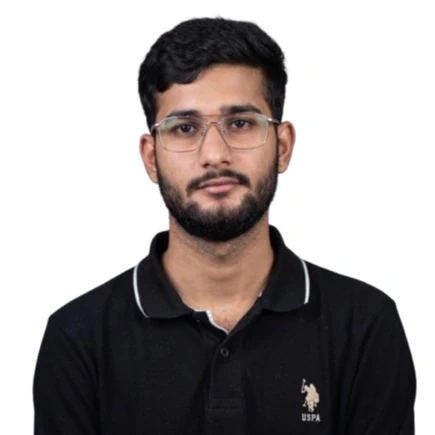
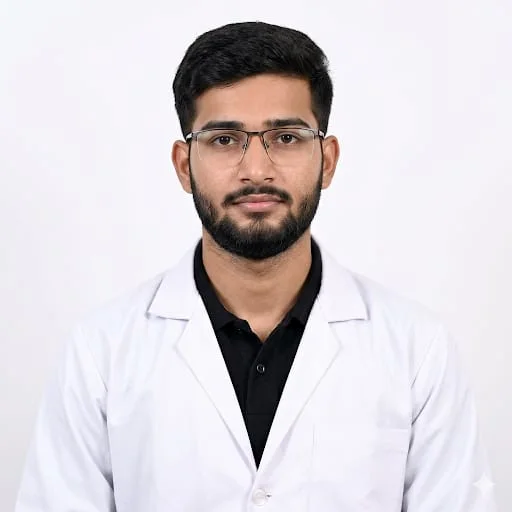
reverse animation flow

diff --git a/src/components/public/PublicNavbar.tsx b/src/components/public/PublicNavbar.tsx
@@ -391,15 +391,15 @@ export default function PublicNavbar() {
             className="overflow-y-auto max-h-[calc(100dvh-64px)] sm:max-h-[calc(100dvh-72px)] border-t border-ink-200 bg-white lg:hidden"
           >
             <div className="space-y-1 px-5 py-4">
-              {MAIN_LINKS.map((link) => (
-                <Link
-                  key={link.href}
-                  href={link.href}
-                  className="block rounded-xl px-4 py-3 font-sans text-sm font-semibold text-ink-700 transition-colors hover:bg-ink-50 hover:text-brand-red-600"
-                >
-                  {link.label}
-                </Link>
-              ))}
+              {/* 1. Home Link */}
+              <Link
+                href={MAIN_LINKS[0].href}
+                className="block rounded-xl px-4 py-3 font-sans text-sm font-semibold text-ink-700 transition-colors hover:bg-ink-50 hover:text-brand-red-600"
+              >
+                {MAIN_LINKS[0].label}
+              </Link>
+
+              {/* 2. Programs Section */}
               <p className="px-4 pb-1 pt-4 font-sans text-[0.625rem] font-bold uppercase tracking-[0.16em] text-ink-400">
                 Programs
               </p>
@@ -415,6 +415,8 @@ export default function PublicNavbar() {
                   <span className="font-sans text-sm font-semibold text-ink-700">{p.label}</span>
                 </Link>
               ))}
+
+              {/* 3. Admissions Section */}
               <p className="px-4 pb-1 pt-4 font-sans text-[0.625rem] font-bold uppercase tracking-[0.16em] text-ink-400">
                 Admissions
               </p>
@@ -430,6 +432,8 @@ export default function PublicNavbar() {
                   <span className="font-sans text-sm font-semibold text-ink-700">{p.label}</span>
                 </Link>
               ))}
+
+              {/* 4. Results Section */}
               <p className="px-4 pb-1 pt-4 font-sans text-[0.625rem] font-bold uppercase tracking-[0.16em] text-ink-400">
                 Results
               </p>
@@ -445,6 +449,8 @@ export default function PublicNavbar() {
                   <span className="font-sans text-sm font-semibold text-ink-700">{p.label}</span>
                 </Link>
               ))}
+
+              {/* 5. Study Material Section */}
               <p className="px-4 pb-1 pt-4 font-sans text-[0.625rem] font-bold uppercase tracking-[0.16em] text-ink-400">
                 Study Material
               </p>
@@ -460,6 +466,8 @@ export default function PublicNavbar() {
                   <span className="font-sans text-sm font-semibold text-ink-700">{p.label}</span>
                 </Link>
               ))}
+
+              {/* 6. Faculty Section */}
               <p className="px-4 pb-1 pt-4 font-sans text-[0.625rem] font-bold uppercase tracking-[0.16em] text-ink-400">
                 Faculty
               </p>
@@ -473,6 +481,17 @@ export default function PublicNavbar() {
                     <p.icon size={18} strokeWidth={1.75} />
                   </span>
                   <span className="font-sans text-sm font-semibold text-ink-700">{p.label}</span>
+                </Link>
+              ))}
+
+              {/* 7. Remaining Main Links (LM Test, About, Blog, Contact) */}
+              {MAIN_LINKS.slice(1).map((link) => (
+                <Link
+                  key={link.href}
+                  href={link.href}
+                  className="block rounded-xl px-4 py-3 font-sans text-sm font-semibold text-ink-700 transition-colors hover:bg-ink-50 hover:text-brand-red-600"
+                >
+                  {link.label}
                 </Link>
               ))}
               <div className="grid grid-cols-2 gap-3 pt-4">

diff --git a/src/components/public/SlidingTicker.tsx b/src/components/public/SlidingTicker.tsx
@@ -6,10 +6,10 @@ export default function SlidingTicker() {
       <style>{`
         /* Master translation timeline: 20 seconds loop */
         @keyframes slideAndCelebrate {
-          0% { transform: translateX(100vw); }
-          55% { transform: translateX(20px); } /* Stops right next to the pedestal */
-          70% { transform: translateX(20px); } /* Wears cap, celebrates & bursts stars */
-          100% { transform: translateX(-140%); } /* Exits left smoothly */
+          0% { transform: translateX(-100%); }
+          55% { transform: translateX(calc(100vw - 4rem - 100% - 32px)); } /* Stops with 32px clearance from pedestal */
+          70% { transform: translateX(calc(100vw - 4rem - 100% - 32px)); } /* Wears cap, celebrates & bursts stars */
+          100% { transform: translateX(100vw); } /* Exits right smoothly */
         }
         .animate-run-slide {
           animation: slideAndCelebrate 20s linear infinite;
@@ -102,9 +102,9 @@ export default function SlidingTicker() {
           0%, 100% { transform: rotate(0deg); }
         }
         @keyframes celeb-wear-cap {
-          0%, 54.9% { opacity: 0; transform: translate(-38px, 15px) rotate(-25deg) scale(0.95); }
-          55% { opacity: 1; transform: translate(-38px, 15px) rotate(-25deg) scale(0.95); } /* Grabs cap */
-          57% { opacity: 1; transform: translate(-22px, -10px) rotate(-10deg) scale(1.15); } /* Lifts cap */
+          0%, 54.9% { opacity: 0; transform: translate(70px, 15px) rotate(25deg) scale(0.95); }
+          55% { opacity: 1; transform: translate(70px, 15px) rotate(25deg) scale(0.95); } /* Grabs cap from right pedestal */
+          57% { opacity: 1; transform: translate(38px, -10px) rotate(10deg) scale(1.15); } /* Lifts cap */
           59% { opacity: 1; transform: translate(0px, -4px) rotate(0deg) scale(1.3); } /* Places on head */
           /* Cap stays on head and bobs in sync with jumping */
           61% { opacity: 1; transform: translate(0px, -4px) rotate(0deg) scale(1.3); } 
@@ -191,8 +191,8 @@ export default function SlidingTicker() {
         .sb-5 { animation: starburst-5 20s ease-out infinite; }
       `}</style>
 
-      {/* Fixed Graduation Cap Stand & Pedestal on the Left */}
-      <div className="absolute left-0 top-0 bottom-0 w-16 bg-[#40060f] border-r border-[#801a2d] z-40 shadow-[4px_0_12px_rgba(0,0,0,0.5)] flex items-center justify-center">
+      {/* Fixed Graduation Cap Stand & Pedestal on the Right */}
+      <div className="absolute right-0 top-0 bottom-0 w-16 bg-[#40060f] border-l border-[#801a2d] z-40 shadow-[-4px_0_12px_rgba(0,0,0,0.5)] flex items-center justify-center">
 
         {/* Glowing Pedestal / Trophy Stand with Cap inside a single SVG to guarantee no clipping */}
         <svg className="w-full h-full p-1" viewBox="0 0 100 100" fill="none">
@@ -217,13 +217,18 @@ export default function SlidingTicker() {
       </div>
 
       {/* Animation Track */}
-      <div className="w-full overflow-hidden relative flex items-center h-full pl-16">
+      <div className="w-full overflow-hidden relative flex items-center h-full pr-16">
         <div className="animate-run-slide flex items-center gap-5 whitespace-nowrap">
+          {/* Tagline text leading with elegant white glow */}
+          <span className="text-white font-extrabold text-xs md:text-sm tracking-[0.22em] uppercase filter drop-shadow-[0_0_6px_rgba(255,255,255,0.7)]">
+            MARCH AHEAD TOWARDS YOUR लक्ष्य
+          </span>
+
           {/* Dual State Student Figure Container */}
           <div className="w-7 h-7 relative select-none">
 
             {/* STATE 1: RUNNING (1.5x Thick High-Energy Stride Cycle with Ground Contact Shadows) */}
-            <div className="state-runner absolute inset-0 flex items-center justify-center" style={{ transform: 'scaleX(-1)' }}>
+            <div className="state-runner absolute inset-0 flex items-center justify-center">
               <svg width="100%" height="100%" viewBox="0 0 100 100" className="relative">
                 
                 {/* FRAME 1: Contact Phase (Landing foot under body, trailing leg high behind) */}
@@ -322,11 +327,6 @@ export default function SlidingTicker() {
             </div>
 
           </div>
-
-          {/* Tagline text trailing behind with elegant white glow */}
-          <span className="text-white font-extrabold text-xs md:text-sm tracking-[0.22em] uppercase filter drop-shadow-[0_0_6px_rgba(255,255,255,0.7)]">
-            MARCH AHEAD TOWARDS YOUR लक्ष्य
-          </span>
         </div>
       </div>
     </div>

diff --git a/src/components/brand/ResultCard.tsx b/src/components/brand/ResultCard.tsx
@@ -64,13 +64,16 @@ export default function ResultCard({
   student,
   category,
   className,
+  priority = false,
 }: {
   student: ResultStudent;
   category: Category;
   className?: string;
+  priority?: boolean;
 }) {
   const a = accentByCategory[category];
   const topper = !!student.isTopper;
+  const shouldPrioritize = priority || topper;
 
   return (
     <div
@@ -95,6 +98,7 @@ export default function ResultCard({
             fill
             sizes="(max-width: 768px) 50vw, (max-width: 1200px) 25vw, 20vw"
             className="object-cover object-top transition-transform duration-500 group-hover:scale-105"
+            priority={shouldPrioritize}
           />
         ) : (
           <div className="relative flex h-full w-full items-center justify-center bg-gradient-to-br from-ink-800 to-ink-950">